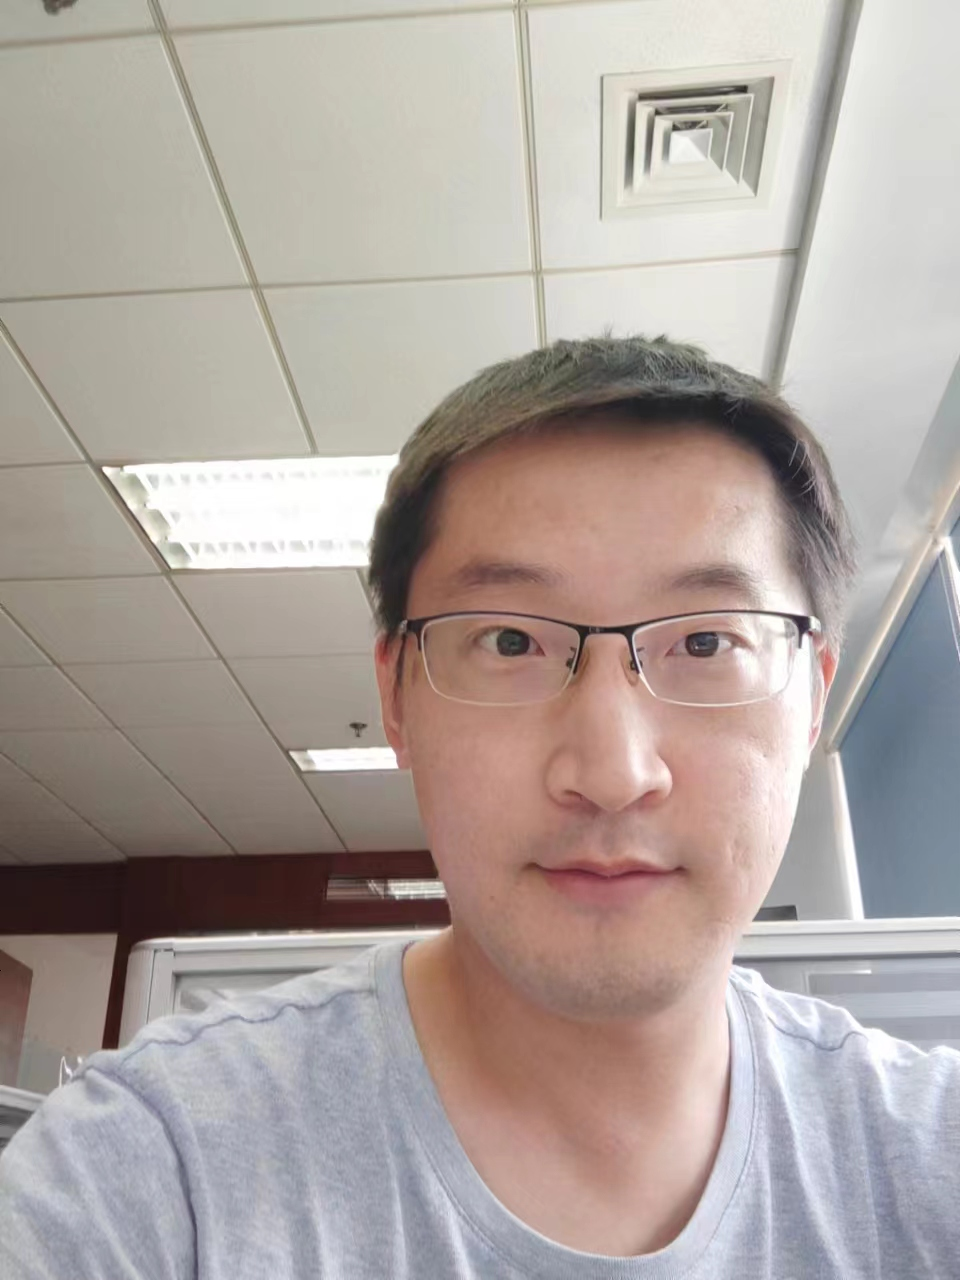
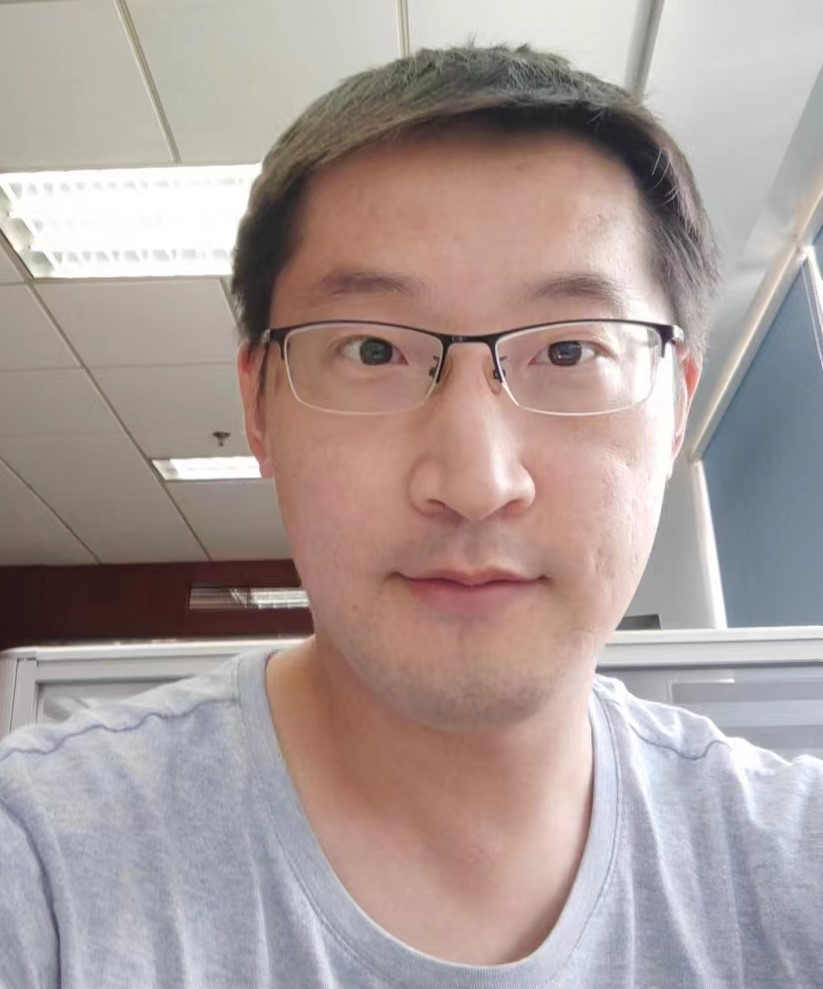
update my blog test v2  Changes to be committed: 	modified:   about.html 	modified:   img/gq-photo.jpg

diff --git a/about.html b/about.html
@@ -30,8 +30,8 @@ header-img: "img/post-bg-rwd.jpg"
     <h5>个人经历</h5>
     <p> 2007年获得吉林师范大学电子信息工程专业学士学位。2011年获得辽宁石油化工大学控制理论与控制工程专业硕士学位。2022年获得大连理工大学控制理论与控制工程专业博士学位。<br />
     2023年起至今，为大连民族大学机电工程学院自动化系讲师。</p>
-    <p>已发表论文共计6篇，其中第一作者SCI论文2篇（中科院一、二区），通讯作者SCI论文1篇（中科院二区），第一作者EI论文1篇，第二作者EI论文1篇，<br />
-    第一作者中文科技核心论文1篇。参与科研项目2项，</p>
+    <p>已发表论文共计6篇，其中第一作者SCI论文2篇（中科院一、二区），通讯作者SCI论文1篇（中科院二区），第一作者EI论文1篇，第二作者EI论文1篇，第一作者中文科技核心论文1篇。<br />
+    参与科研项目2项。</p>
     <h5>研究方向</h5>
     <ul>
     <li><p>机器视觉</p>
@@ -67,16 +67,16 @@ header-img: "img/post-bg-rwd.jpg"
     <ol>
     <li><p>2014.07-2015.05 哈尔滨航天科技控股集团股份有限公司 软件工程师</p></li>
     <ul>
-    <li><p>负责设计 Sim 卡电路、液晶屏电路h</p>
+    <li><p>负责设计 Sim 卡电路、液晶屏电路</p>
     </li>
     <li><p>B7车速检测，记录仪国标、行标的过检实验</p>
     </li>
     </ul>
     <li><p>2015.05-2017.05 江南计算技术研究所 软件工程师</p></li>
     <ul>
-    <li><p>编写国产化平台GPIO和BUZZ驱动程序</p>
+    <li><p>编写国产化平台 GPIO 和 BUZZ 驱动程序</p>
     </li>
-    <li><p>国产平台内核产品化 更正CPU信息显示和Bogomips显示错误等,</p>
+    <li><p>国产平台内核产品化 更正 CPU 信息显示和 Bogomips 显示错误等</p>
     </li>
     <li><p>Raid卡盘阵的适配和测试</p>
     </li>
